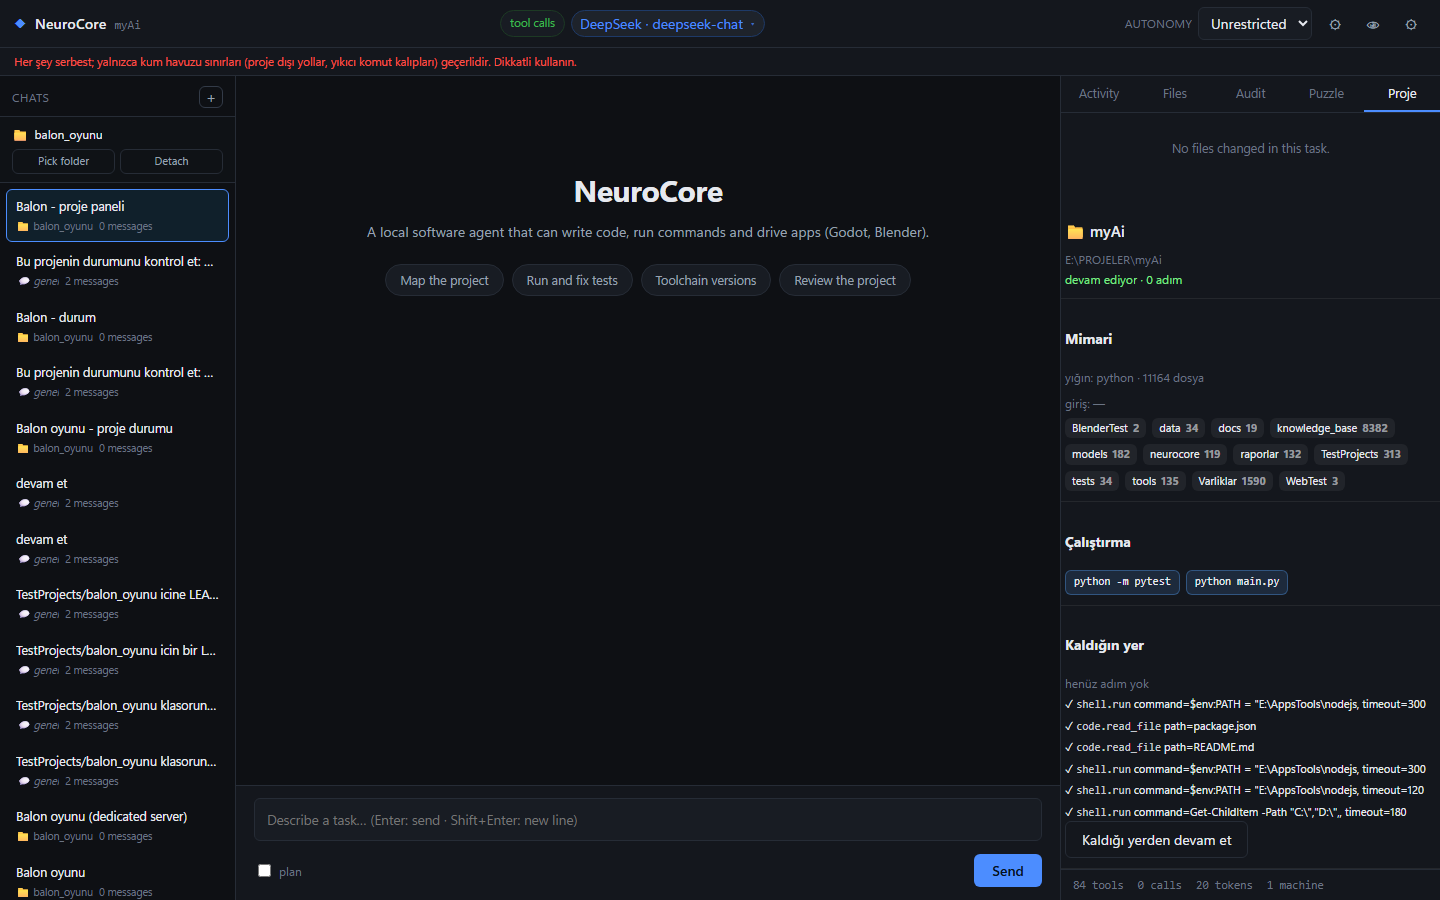
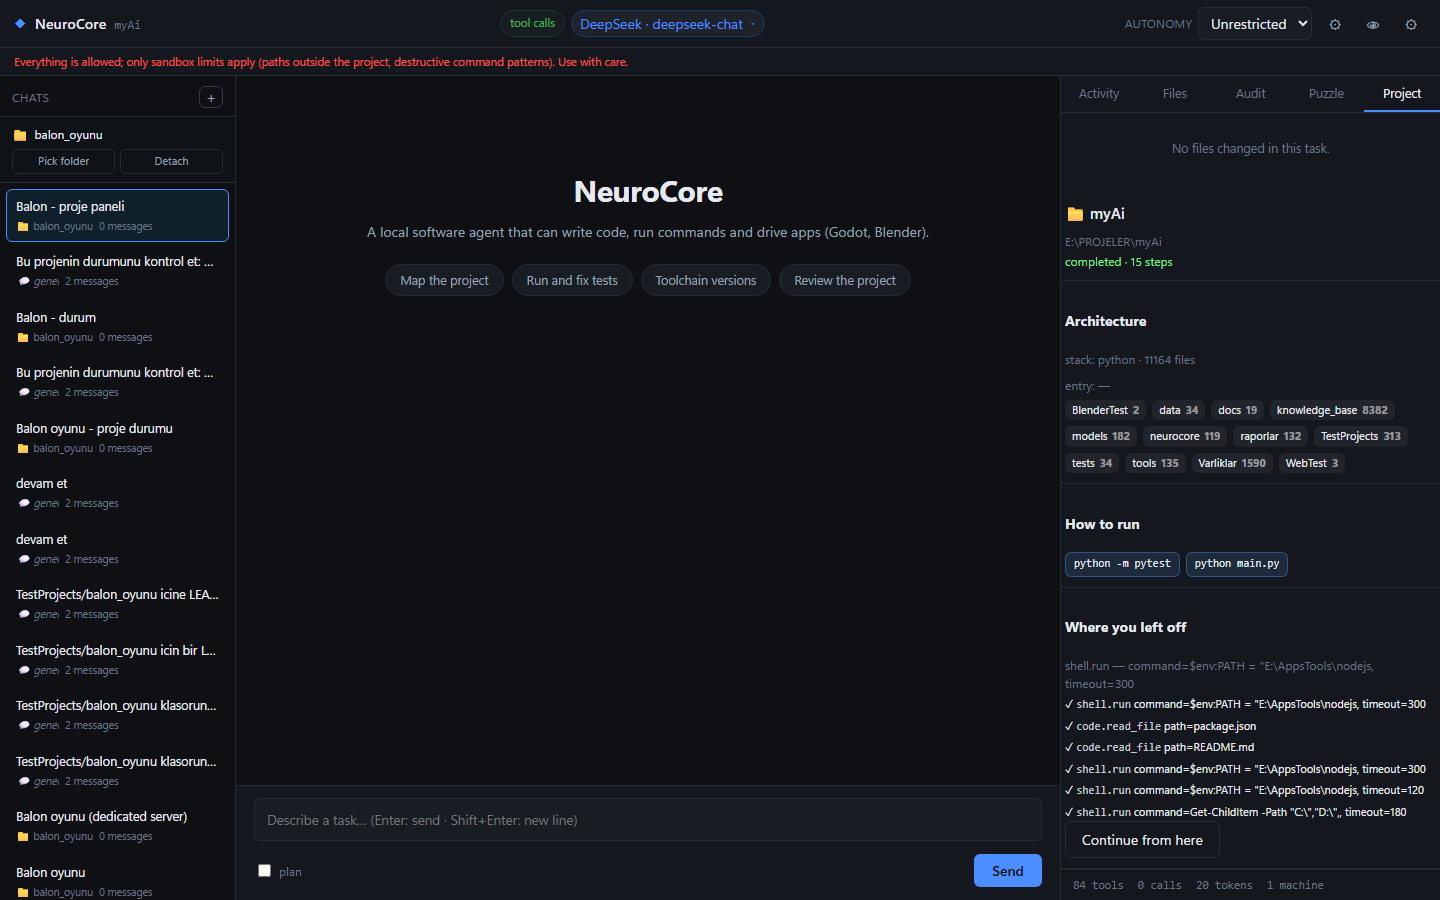
fix(i18n): panel metinleri + kelime siniri (TestProjects bozulmasi)
Kullanici: 'panelde ingilizce olmasina ragmen turkce yazilar var'.

1) Dinamik panel metinleri sozluge eklendi (~60 anahtar):
   Mimari/Architecture, Calistirma/How to run, Kaldigin yer/Where you left
   off, devam dugmesi, durum sozcukleri (tamamlandi/devam ediyor/revize),
   ozerklik bantlari (4 seviye aciklamasi sunucudan geliyordu),
   puzzle & MCP panel etiketleri, ogrenim paneli, bos durum metinleri.
2) ⚠ YENI HATA (kendi duzeltmemden): 'Proje' -> 'Project' alt-dize eslesmesi
   'TestProjects' icindeki 'Proje'yi de degistirdi ('TestProjectddddtcts').
   Cozum: kisa anahtarlarda (<=12) **kelime siniri** ((?<![\p{L}\p{N}_]))
   kullanilir; uzun cumlelerde bosluk-esnek eslesme korunur.
3) Panel degisimi: once TUM .side-view kapatilir (onceki panel gorunur
   kaliyordu: Proje sekmesinde 'No files changed' satiri).

Dogrulama (headless, ?lang=en&panel=project):
  Project sekmesi · Architecture · How to run · Where you left off ·
  Continue from here · banner Ingilizce · sohbet basliklari bozulmadi.
Gorsel: docs/images/proje-paneli.png

diff --git a/neurocore/app/web/i18n.js b/neurocore/app/web/i18n.js
@@ -94,6 +94,7 @@
     [/^havuz —$/, () => "pool —"],
   ];
 
+
   // ⚠ ÖLÇÜLDÜ: kaynak metinler sözlüktekiyle **birebir** aynı değil —
   // "Proje haritasını çıkar" (belirtme hâli), "Henüz bir işlem yok." (fazladan
   // "bir"), placeholder'da `…` (U+2026) ve satır içi çoklu boşluk var.
@@ -104,6 +105,91 @@
     "Henüz kayıt yok.": "No records yet.",
     "Henüz tur yok.": "No rounds yet.",
     "Testleri çalıştır ve düzelt": "Run and fix tests",
+  });
+
+
+  // ⚠ Dinamik üretilen panel metinleri (app.js şablonları): sözlükte
+  // olmadıkları için İngilizce modda Türkçe kalıyorlardı.
+  Object.assign(SOZLUK, {
+    // proje paneli
+    "Proje": "Project",
+    "Mimari": "Architecture",
+    "Çalıştırma": "How to run",
+    "Kaldığın yer": "Where you left off",
+    "Kaldığı yerden devam et": "Continue from here",
+    "henüz adım yok": "no steps yet",
+    "komut bulunamadı": "no command found",
+    "yığın": "stack",
+    "giriş": "entry",
+    "dosya": "files",
+    "adım": "steps",
+    "ölçüt": "criterion",
+    // puzzle / mcp panelleri
+    "Bağlantı ekle": "Add connection",
+    "Blender şablonu": "Blender template",
+    "Godot şablonu": "Godot template",
+    "Sına": "Test",
+    "bağlı": "connected",
+    "bağlı değil": "not connected",
+    "araç": "tools",
+    "soru": "questions",
+    // durum
+    "hazır": "ready",
+    "kapalı": "closed",
+    "varsayılan": "default",
+    "yükleniyor…": "loading…",
+    "(başlıksız)": "(untitled)",
+    "(boş dosya)": "(empty file)",
+    "(boş klasör)": "(empty folder)",
+    "(alt klasör yok)": "(no subfolder)",
+    "(yanıt üretilmedi)": "(no answer produced)",
+    "(ikili dosya — metin olarak gösterilemez)":
+      "(binary file — cannot show as text)",
+    "(çalışma alanı)": "(workspace)",
+    "— varsayılan —": "— default —",
+    "dosya değişti": "files changed",
+    // paneller
+    "Araç çağrısı kaydı boş.": "No tool calls recorded.",
+    "Henüz kayıt yok. Bir görev çalıştırın.": "No records yet. Run a task.",
+    "Son çalışmalar:": "Recent runs:",
+    "Henüz sohbet yok.": "No chats yet.",
+    "Henüz MCP bağlantısı yok.": "No MCP connections yet.",
+    "Henüz tur yok.": "No rounds yet.",
+    // öğrenim
+    "Öğrenme": "Learning",
+    "Şimdi eğit": "Train now",
+    "Yenile": "Refresh",
+    "Kendi Kendine Geliştirme": "Self-improvement",
+    "Şimdi öğren": "Learn now",
+    "Konuları kaydet": "Save topics",
+    "öğretici": "instructive",
+    "başarılı": "successful",
+    "eşik": "threshold",
+    "Üretim eşiğine": "To the production threshold",
+    "MCP Bağlantıları": "MCP connections",
+    "Arayüz dili": "Interface language",
+  });
+
+  Object.assign(SOZLUK, {
+    // özerklik bandı (sunucudan gelir, düz metin)
+    "Hiçbir değişiklik yapılmaz. Yalnızca okuma, arama, analiz ve ekran görüntüsü. En güvenli seçenek.":
+      "No changes are made. Read, search, analysis and screenshots only. Safest option.",
+    "Yazma, çalıştırma ve yıkıcı işlemler onay ister. Okuma serbest. Önerilen varsayılan.":
+      "Writes, commands and destructive operations require approval. Reads are free. Recommended default.",
+    "Yazma, test ve derleme serbest; silme, sistem ayarı ve proje dışına yazma onay ister.":
+      "Writes, tests and builds are free; deleting, system settings and writing outside the project require approval.",
+    "Her şey serbest; yalnızca kum havuzu sınırları (proje dışı yollar, yıkıcı komut kalıpları) geçerlidir. Dikkatli kullanın.":
+      "Everything is allowed; only sandbox limits apply (paths outside the project, destructive command patterns). Use with care.",
+    // durum sözcükleri
+    "tamamlandı": "completed",
+    "devam ediyor": "in progress",
+    "bekliyor": "pending",
+    "revize": "needs revision",
+    "adam": "step",
+    "çalışıyor": "running",
+    "durduruldu": "stopped",
+    "hata": "error",
+    "onay bekleniyor": "waiting for approval",
   });
 
   function normal(metin) {
@@ -140,12 +226,19 @@
     // ⚠ Alt-dize: arayüz metinleri sık sık cümle içinde geçiyor
     // (ör. "genel sohbet (klasör yok)", "0 mesaj", uyarı bandı).
     let sonuc = metin;
+    // ⚠ ÖLÇÜLEN HATA: alt-dize eşleşmesi kelime ortasını da bozuyordu
+    // ("Proje" → "TestProjectddddtcts"). Bu yüzden **kelime sınırı** kullanılır:
+    // kısa anahtarlar (≤ 12) yalnız tam kelime olarak değişir.
     for (const anahtar of ANAHTARLAR) {
       if (anahtar.length < 4) continue;
-      // ⚠ Boşluk esnek: kaynakta çoklu boşluk/satır sonu olabilir
+      const govde = anahtar
+        .replace(/[.*+?^${}()|[\]\\]/g, "\\$&")
+        .replace(/ /g, "\\s+");
+      const sinir = anahtar.length <= 12;
       const kalip = new RegExp(
-        anahtar.replace(/[.*+?^${}()|[\]\\]/g, "\\$&").replace(/ /g, "\\s+"),
-        "g");
+        (sinir ? "(?<![\\p{L}\\p{N}_])" : "") + govde
+          + (sinir ? "(?![\\p{L}\\p{N}_])" : ""),
+        "gu");
       if (kalip.test(sonuc)) {
         sonuc = sonuc.replace(kalip, NORMAL_SOZLUK.get(anahtar));
       }

diff --git a/neurocore/app/web/app.js b/neurocore/app/web/app.js
@@ -2107,7 +2107,13 @@ const State = {
         document.querySelectorAll('.side-tab').forEach((t) => t.classList.remove('active'));
         document.querySelectorAll('.side-view').forEach((v) => v.classList.remove('active'));
         tab.classList.add('active');
-        $(`view-${tab.dataset.tab}`).classList.add('active');
+        // ⚠ ÖNCE tüm panelleri kapat: aksi hâlde önceki panel görünür
+        // kalıyordu (ölçüldü: Proje sekmesinde "No files changed" satırı).
+        document.querySelectorAll('.side-view').forEach((v) => {
+          v.classList.remove('active');
+        });
+        const hedefPanel = $(`view-${tab.dataset.tab}`);
+        if (hedefPanel) hedefPanel.classList.add('active');
         // "Dosyalar" sekmesi çalışma alanı ağacını gösterir; ilk açılışta
         // kökü yükle.
         if (tab.dataset.tab === 'files') Tree.reload();
